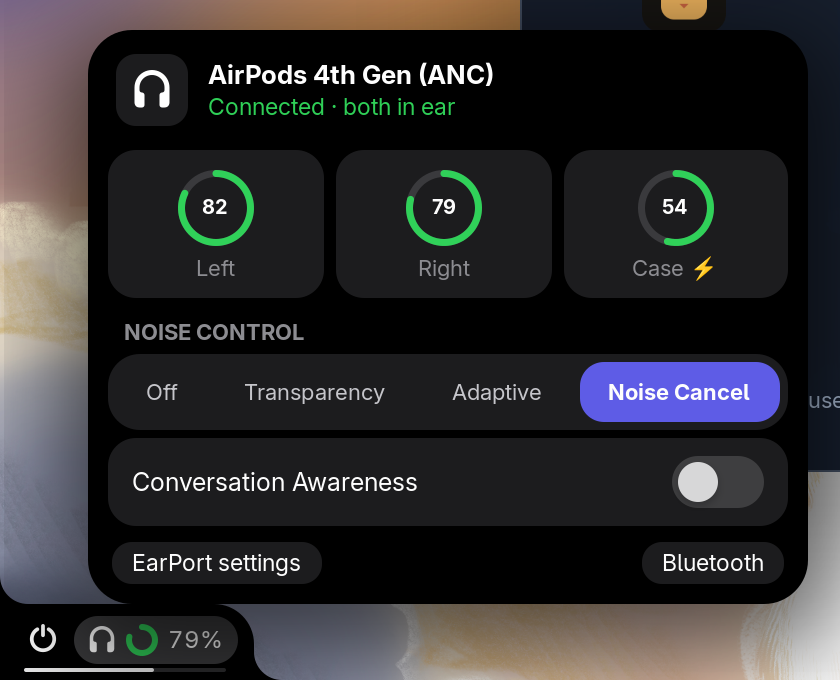
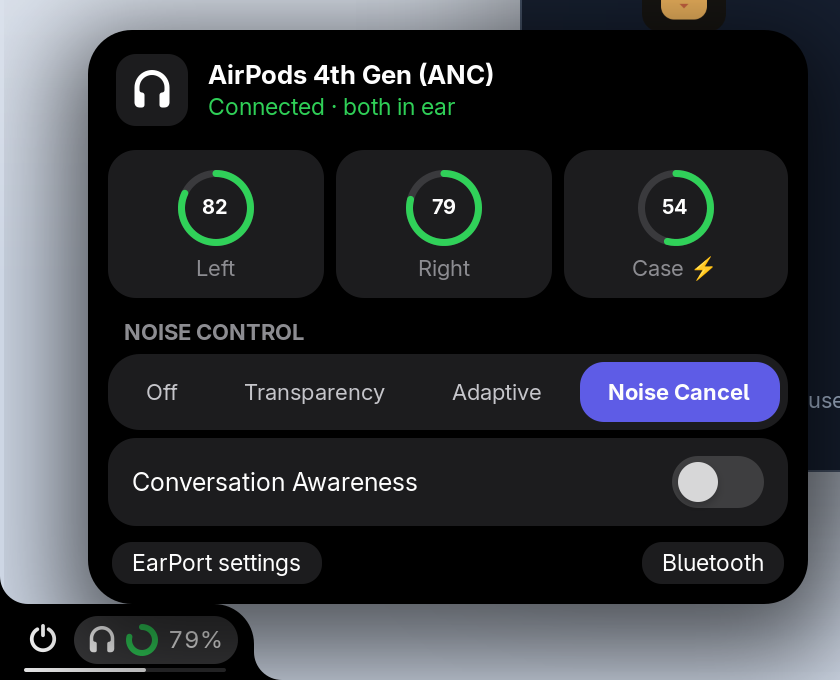
Retake README screenshots on a light background
The black islands disappeared into the dark default wallpaper. 2x screenshot
runs now use a soft light gradient so the islands, their curved edges and
menus stand out.

Changed region(s): [[0.0, 0.0, 0.619, 0.8956], [0.2786, 0.6794, 1.0, 1.0]]

diff --git a/README.md b/README.md
@@ -182,8 +182,8 @@ D-Bus session, settings and data. It drives real GTK windows, keyboard and
 pointer input, notifications, a fake EarPort service and hot reloads, and
 saves screenshots. Set `NOTCHBOARD_TEST_TILING=1` or `NOTCHBOARD_TEST_DOCK=1`
 to also run your installed Tiling Assistant or Dash to Dock alongside it.
-`NOTCHBOARD_TEST_SCALE=2` renders the same layout at 2x; the screenshots in
-`docs/assets` are cropped from such a run.
+`NOTCHBOARD_TEST_SCALE=2` renders the same layout at 2x on a light
+background; the screenshots in `docs/assets` are cropped from such a run.
 
 ## License
 
